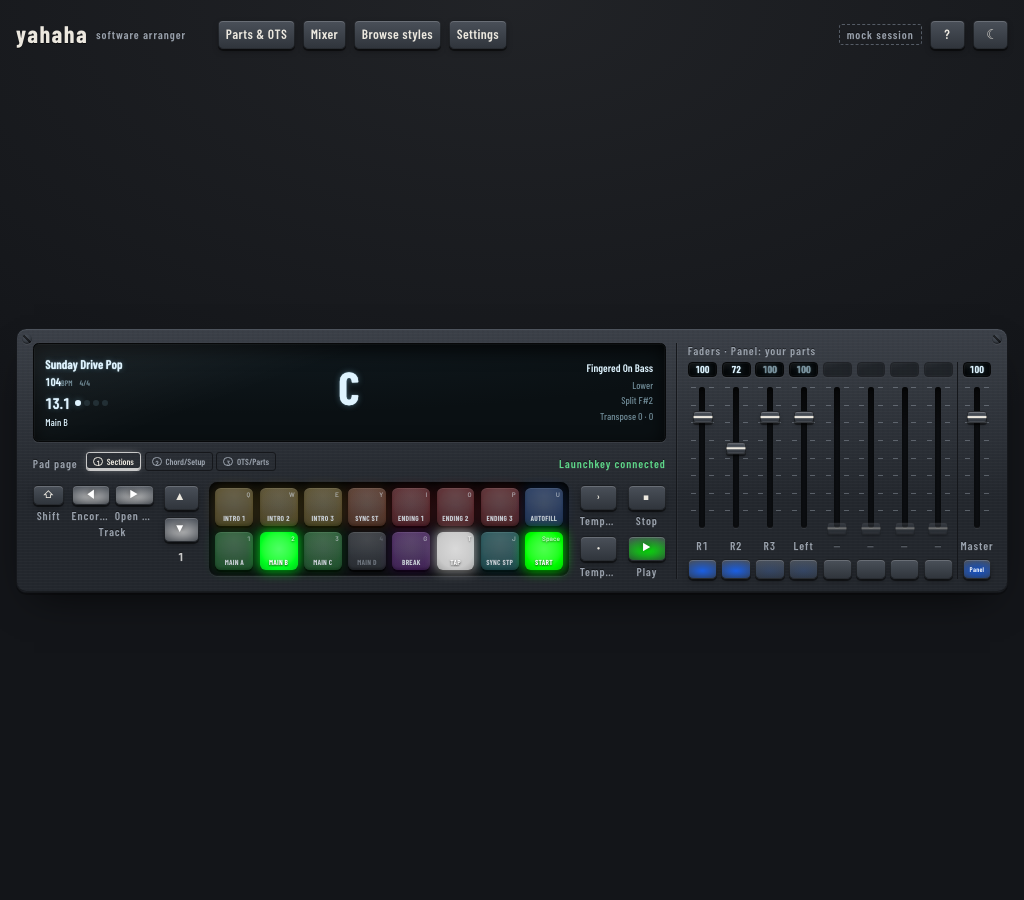
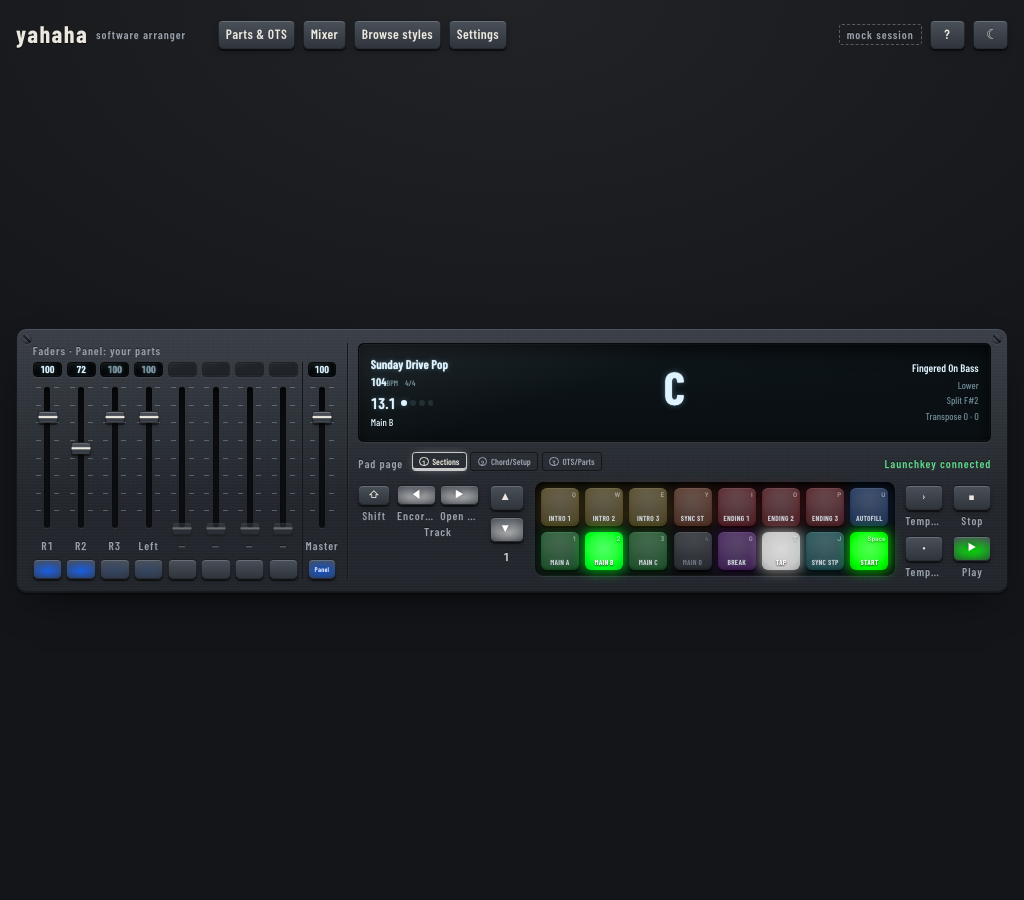
Review fixes: Launchkey back to standalone on exit, faders on the left, honest mock fallback
- Stop the engine on app exit (RunEvent::Exit). Tauri exits the process and the event
  thread holds the Arc, so Session's Drop never ran and the Launchkey stayed in DAW mode.
- Faders and fader buttons sit left of the screen, as on the MK4 49/61 (User Guide p. 9);
  transport stays right of the pads. Screenshots regenerated.
- When the engine can't start, the stand-in mock reports an offline session, no
  Launchkey, no synth and the reason, instead of a connected rig that makes no sound.
- Capabilities: core:event:default only (the webview just listens to `yahaha`).
- Break tooltip: it starts at the next beat, not the next bar (engine queue_fill).
- Pad glow on its own layer, so pulsing lamps don't re-raster a blur every frame.

Changed region(s): [[0.0312, 0.3733, 0.9688, 0.6533]]

diff --git a/app/src/panels/launchkey/Launchkey.svelte b/app/src/panels/launchkey/Launchkey.svelte
@@ -1,14 +1,15 @@
 <!--
   The hardware mirror: the Launchkey 49/61 MK4 control surface, laid out like the real one
-  so a glance maps 1:1 onto the controls under your hands (MK4 User Guide, "The surface in
-  DAW mode"; CCs in src/launchkey.rs).
+  so a glance maps 1:1 onto the controls under your hands (MK4 User Guide pp. 9–11,
+  "Launchkey 49 hardware overview": faders left of the screen, transport right of the
+  pads; CCs in src/launchkey.rs).
 
-   ┌────────────────────────────────────────────────────────────────────────┬──────────────┐
-   │ [ status display: style · tempo · bar/beat │ CHORD │ fingering · split ] │ 8 faders   M │
-   │ (pad page tabs)                                                         │              │
-   │ [Shift] [◀ Track ▶]  ▲ [ 8 pads, top row    ] Scene›  Stop              │              │
-   │                      ▼ [ 8 pads, bottom row ] Func    Play              │ 8 buttons  M │
-   └────────────────────────────────────────────────────────────────────────┴──────────────┘
+   ┌──────────────┬────────────────────────────────────────────────────────────────────────┐
+   │ 8 faders   M │ [ status display: style · tempo · bar/beat │ CHORD │ fingering · split ] │
+   │              │ (pad page tabs)                                                         │
+   │              │ [Shift] [◀ Track ▶]  ▲ [ 8 pads, top row    ] Scene›  Stop              │
+   │ 8 buttons  M │                      ▼ [ 8 pads, bottom row ] Func    Play              │
+   └──────────────┴────────────────────────────────────────────────────────────────────────┘
 
   Every element shows its function on the current pad/fader page and Shift layer, has a
   tooltip from the catalog, and clicking it sends exactly what the hardware sends. The
@@ -43,6 +44,14 @@
   <div class="device mat-chassis">
     <span class="screw tl" aria-hidden="true"></span>
     <span class="screw tr" aria-hidden="true"></span>
+
+    <!-- Left of the screen, as on the hardware (and first in tab order). -->
+    <div class="faders">
+      <div class="fader-head">
+        <span class="engraved">Faders · {s.mixer.faderPage === 'panel' ? 'Panel: your parts' : 'Style: the band'}</span>
+      </div>
+      <div class="fader-body"><FaderBank {surface} /></div>
+    </div>
 
     <div class="screen-area"><StatusDisplay /></div>
 
@@ -97,13 +106,6 @@
       <Control {surface} id="stop" legend="■" shape="square" caption="Stop" />
       <Control {surface} id="play" legend="▶" shape="square" caption="Play" />
     </div>
-
-    <div class="faders">
-      <div class="fader-head">
-        <span class="engraved">Faders · {s.mixer.faderPage === 'panel' ? 'Panel: your parts' : 'Style: the band'}</span>
-      </div>
-      <div class="fader-body"><FaderBank {surface} /></div>
-    </div>
   </div>
 </section>
 
@@ -117,12 +119,12 @@
     font-size: var(--u);
     position: relative;
     display: grid;
-    grid-template-columns: 11.5em 3.3em minmax(0, 1fr) 3.6em 3.6em 30em;
+    grid-template-columns: 30em 11.5em 3.3em minmax(0, 1fr) 3.6em 3.6em;
     grid-template-rows: 9.5em auto auto;
     grid-template-areas:
-      'screen screen screen screen screen faders'
-      'pagebar pagebar pagebar pagebar pagebar faders'
-      'left padbank pads side transport faders';
+      'faders screen screen screen screen screen'
+      'faders pagebar pagebar pagebar pagebar pagebar'
+      'faders left padbank pads side transport';
     column-gap: 1em;
     row-gap: 0.9em;
     padding: 1.3em 1.5em 1.2em;
@@ -245,9 +247,9 @@
     display: grid;
     grid-template-rows: auto 1fr;
     gap: 0.4em;
-    padding-left: 1em;
-    border-left: 1px solid var(--seam);
-    box-shadow: inset 1px 0 0 rgb(255 255 255 / 0.04);
+    padding-right: 1em;
+    border-right: 1px solid var(--seam);
+    box-shadow: 1px 0 0 rgb(255 255 255 / 0.04);
     min-width: 0;
   }
   .fader-body {
@@ -287,8 +289,9 @@
       width: 4em;
     }
     .faders {
-      padding-left: 0;
-      border-left: none;
+      padding-right: 0;
+      border-right: none;
+      box-shadow: none;
       height: 20em;
     }
   }

diff --git a/app/src/panels/launchkey/Launchkey.test.ts b/app/src/panels/launchkey/Launchkey.test.ts
@@ -32,6 +32,14 @@ describe('Launchkey mirror', () => {
     expect(pad(115).dataset.level).toBe('off') // this style has no Main D
   })
 
+  it('reads left to right like the hardware: faders, then the pads, then the transport', () => {
+    setup()
+    const before = (a: string, b: string) =>
+      !!(document.querySelector(a)!.compareDocumentPosition(document.querySelector(b)!) & Node.DOCUMENT_POSITION_FOLLOWING)
+    expect(before('[aria-label="Faders"]', '.pads')).toBe(true)
+    expect(before('.pads', '[aria-label="Transport"]')).toBe(true)
+  })
+
   it('follows the pad page', () => {
     const { session } = setup()
     session.send({ type: 'setPadPage', page: 'otsParts' })

diff --git a/app/src/panels/launchkey/HwPad.svelte b/app/src/panels/launchkey/HwPad.svelte
@@ -76,6 +76,9 @@
     border-radius: inherit;
     box-shadow: 0 0 1.1em 0.15em var(--led);
     opacity: calc(var(--b) * 0.75);
+    /* Its own layer: a pulsing pad then fades a cached blur instead of re-rastering it
+       every frame (software raster ran at ~38 fps without this, 60 with it). */
+    will-change: opacity;
     pointer-events: none;
   }
   /* The backlit rubber: brightest in the middle, like a diffused LED. */

diff --git a/app/src/help/tooltips.ts b/app/src/help/tooltips.ts
@@ -136,7 +136,7 @@ const catalog = {
   },
   'section.break': {
     title: 'Break',
-    body: 'Plays a one-bar break at the next bar, then goes back to the Main.',
+    body: 'Plays the break from the next beat to the end of the bar, then goes back to the Main. The lamp flashes while it waits for the beat.',
     genos: 'BREAK',
     keys: ['g'],
     launchkey: pad(P1, 'bottom', 5),

diff --git a/app/src-tauri/src/lib.rs b/app/src-tauri/src/lib.rs
@@ -15,7 +15,9 @@
 //! - `YAHAHA_SF2=file.sf2`: the synth's SoundFont; else the first `.sf2` in the repo's
 //!   `soundfonts/`, else no synth.
 //!
-//! If the engine can't start (no CoreMIDI, say), the shell falls back to the mock.
+//! If the engine can't start (no CoreMIDI, say), the shell falls back to the mock, which then
+//! reports an offline session with no Launchkey and the reason in the status line.
+//! On exit the engine is stopped, which puts the Launchkey back in standalone mode.
 
 pub mod mock;
 
@@ -135,22 +137,36 @@ fn backend() -> Backend {
     };
     if paths.is_empty() {
         eprintln!("yahaha: no styles (set YAHAHA_STYLES); running the mock session");
-        return Backend::Mock(Box::new(Mutex::new(MockSession::new())));
+        return Backend::Mock(Box::new(Mutex::new(MockSession::fallback(
+            "No styles found (set YAHAHA_STYLES): a demo band with no sound or MIDI",
+        ))));
     }
     let sf2 = std::env::var_os("YAHAHA_SF2").map(PathBuf::from).or_else(|| first_sf2(&repo_root().join("soundfonts")));
     match yahaha::Session::start(yahaha::Options { paths, sf2, ..yahaha::Options::default() }) {
         Ok(s) => Backend::Live(s),
         Err(e) => {
             eprintln!("yahaha: the engine didn't start ({e:#}); running the mock session");
-            Backend::Mock(Box::new(Mutex::new(MockSession::new())))
+            Backend::Mock(Box::new(Mutex::new(MockSession::fallback(format!(
+                "The engine didn't start ({e:#}): a demo band with no sound or MIDI"
+            )))))
         }
+    }
+}
+
+/// Stop the engine: the band stops, the Launchkey's lights go off and it leaves DAW mode
+/// (back to standalone), audio and MIDI close. Idempotent. Run on app exit: Tauri ends
+/// the process with `exit()`, and the event thread holds a clone of the `Arc`, so
+/// `Session`'s `Drop` never runs on its own.
+fn shutdown(backend: &Backend) {
+    if let Backend::Live(s) = backend {
+        s.stop();
     }
 }
 
 #[cfg_attr(mobile, tauri::mobile_entry_point)]
 pub fn run() {
     let shared: Shared = Arc::new(backend());
-    tauri::Builder::default()
+    let app = tauri::Builder::default()
         .manage(shared)
         .setup(|app| {
             let handle = app.handle().clone();
@@ -162,6 +178,48 @@ pub fn run() {
             Ok(())
         })
         .invoke_handler(tauri::generate_handler![send, state, library])
-        .run(tauri::generate_context!())
-        .expect("error while running tauri application");
+        .build(tauri::generate_context!())
+        .expect("error while building tauri application");
+    app.run(|app, event| {
+        if let tauri::RunEvent::Exit = event {
+            shutdown(&app.state::<Shared>());
+        }
+    });
+}
+
+#[cfg(test)]
+mod tests {
+    use super::*;
+
+    /// The Launchkey goes back to standalone on exit: `shutdown` stops a live session (its
+    /// subscribers get `Stopped`, which also ends the event-forwarding thread).
+    #[test]
+    fn shutdown_stops_a_live_session() {
+        let style = repo_root().join("corpus/MOX_v2");
+        let Some(path) = std::fs::read_dir(&style).ok().and_then(|d| d.filter_map(|e| e.ok()).map(|e| e.path()).find(|p| p.is_file()))
+        else {
+            eprintln!("corpus missing; skipping");
+            return;
+        };
+        let s = yahaha::Session::offline(yahaha::Options { paths: vec![path], ..yahaha::Options::default() }).unwrap();
+        let events = s.subscribe();
+        let backend: Shared = Arc::new(Backend::Live(s));
+        let held = backend.clone(); // as the event thread holds it
+        shutdown(&backend);
+        assert!(events.try_iter().any(|e| e == yahaha::Event::Stopped));
+        shutdown(&held); // idempotent
+    }
+
+    /// When the engine can't start, the stand-in mock doesn't pass for a working rig.
+    #[test]
+    fn the_fallback_mock_says_it_is_not_the_engine() {
+        let m = MockSession::fallback("The engine didn't start (no CoreMIDI)");
+        let v = serde_json::to_value(&m.state).unwrap();
+        assert_eq!(v["io"]["offline"], true);
+        assert_eq!(v["pads"]["connected"], false);
+        assert!(v["io"]["synth"].is_null());
+        assert!(v["message"]["text"].as_str().unwrap().contains("didn't start"));
+        let normal = serde_json::to_value(&MockSession::new().state).unwrap();
+        assert_eq!(normal["pads"]["connected"], true, "YAHAHA_MOCK=1 keeps the demo rig");
+    }
 }

diff --git a/app/src-tauri/src/mock.rs b/app/src-tauri/src/mock.rs
@@ -248,6 +248,19 @@ impl MockSession {
         m
     }
 
+    /// The mock standing in for an engine that didn't start: it says so (an offline
+    /// session, no Launchkey, no synth, and the reason in the status line) instead of
+    /// passing for a connected rig.
+    pub fn fallback(reason: impl Into<String>) -> MockSession {
+        let mut m = MockSession::new();
+        m.state.io.offline = true;
+        m.state.io.inputs.clear();
+        m.state.io.synth = None;
+        m.state.pads.connected = false;
+        m.message(reason, true);
+        m
+    }
+
     pub fn library(&self) -> &LibraryList {
         &self.library
     }

diff --git a/app/docs/controls.md b/app/docs/controls.md
@@ -27,7 +27,7 @@ Every control in the app, as its tooltip describes it. Hover over any control in
 | **Main B** | Switches to Main B at the next bar; the lamp flashes while queued. Press the Main that is playing to play its fill, which also flashes. | MAIN VARIATION B | `2` | Pad page 1 (Sections), bottom row, pad 2 |
 | **Main C** | Switches to Main C at the next bar; the lamp flashes while queued. Press the Main that is playing to play its fill, which also flashes. | MAIN VARIATION C | `3` | Pad page 1 (Sections), bottom row, pad 3 |
 | **Main D** | Switches to Main D at the next bar; the lamp flashes while queued. Press the Main that is playing to play its fill, which also flashes. | MAIN VARIATION D | `4` | Pad page 1 (Sections), bottom row, pad 4 |
-| **Break** | Plays a one-bar break at the next bar, then goes back to the Main. | BREAK | `G` | Pad page 1 (Sections), bottom row, pad 5 |
+| **Break** | Plays the break from the next beat to the end of the bar, then goes back to the Main. The lamp flashes while it waits for the beat. | BREAK | `G` | Pad page 1 (Sections), bottom row, pad 5 |
 | **Ending I** | Plays Ending I from the next bar, then stops the band. | ENDING/rit. I | `I` | Pad page 1 (Sections), top row, pad 5 |
 | **Ending II** | Plays Ending II from the next bar, then stops the band. | ENDING/rit. II | `O` | Pad page 1 (Sections), top row, pad 6 |
 | **Ending III** | Plays Ending III from the next bar, then stops the band. Dark if the style has none. | ENDING/rit. III | `P` | Pad page 1 (Sections), top row, pad 7 |
